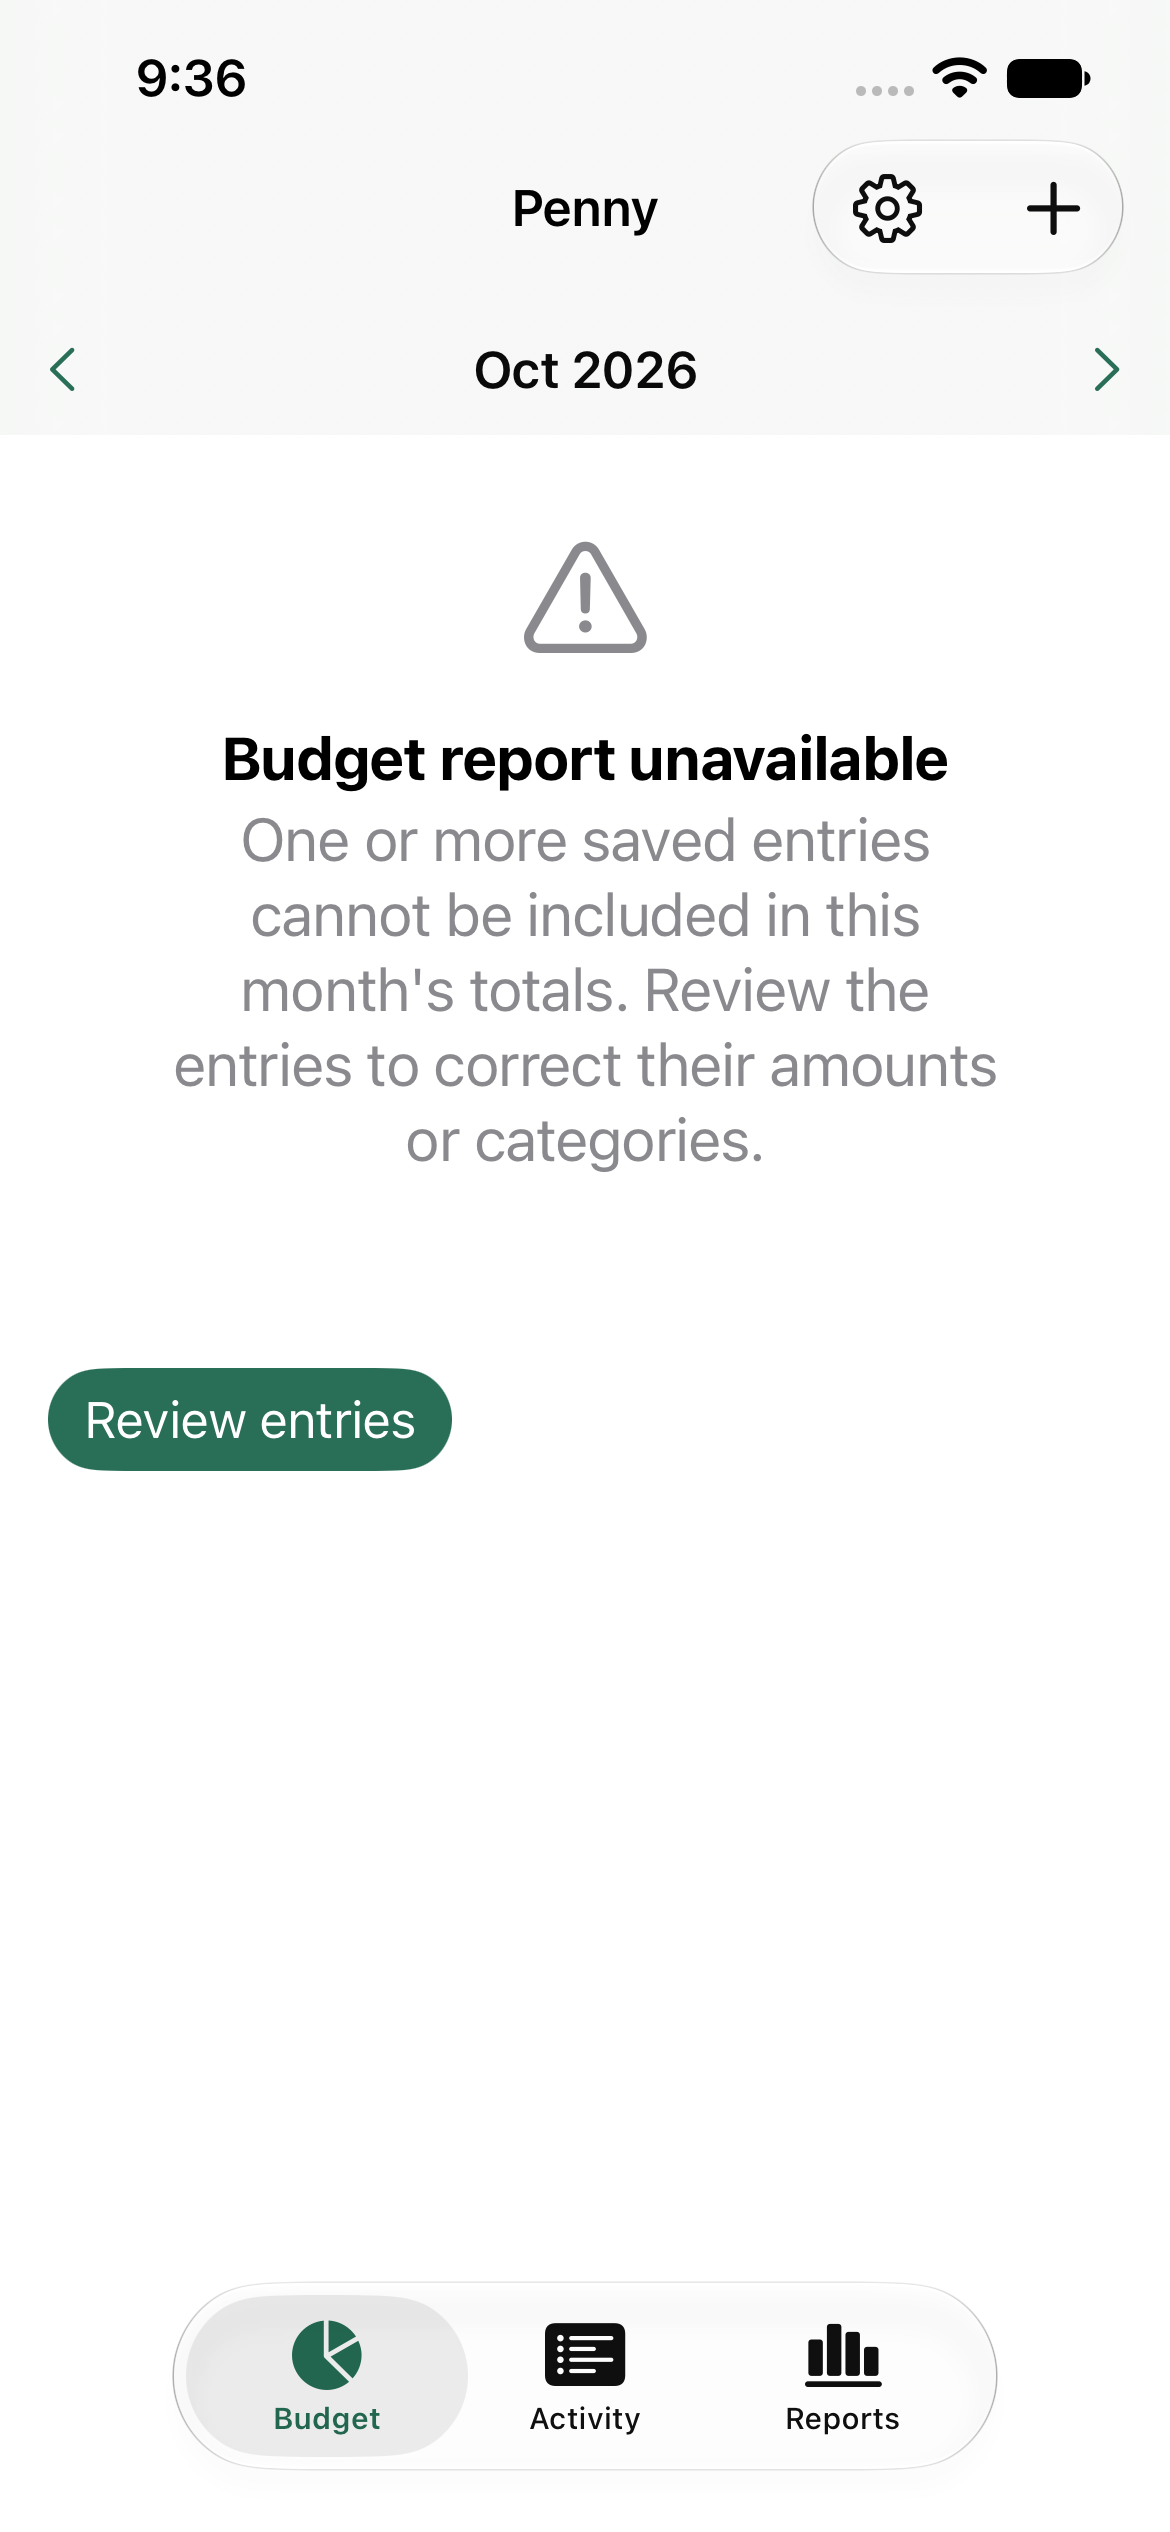
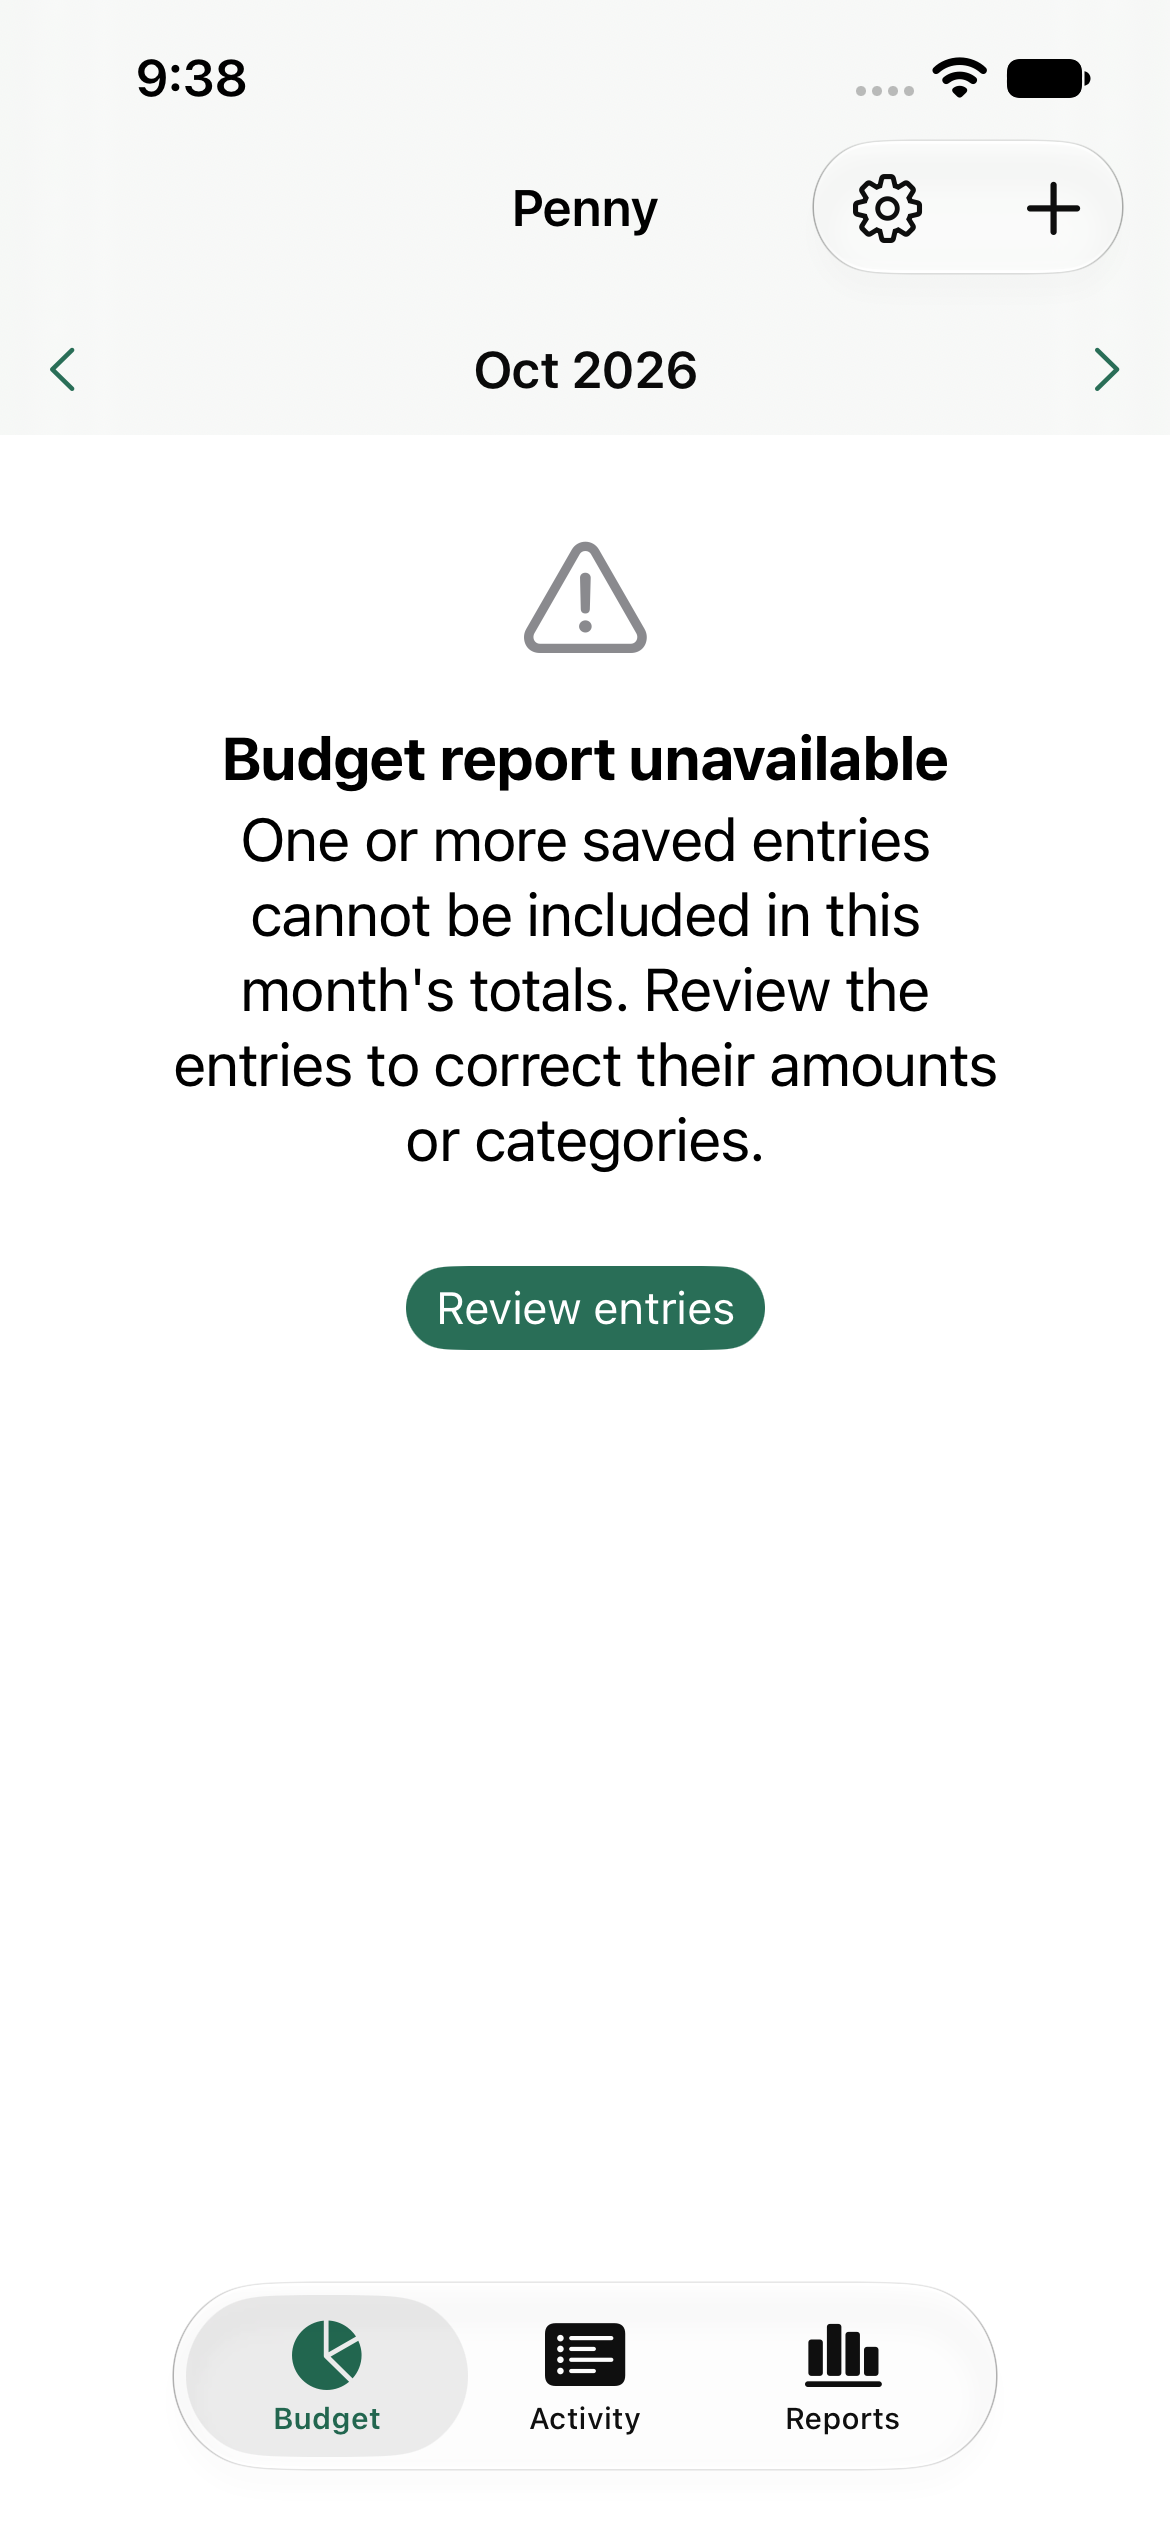
docs: record accessible recovery screen

Changed region(s): [[0.1538, 0.312, 0.8615, 0.468], [0.0308, 0.4992, 0.6769, 0.5928]]

diff --git a/design-review/review.md b/design-review/review.md
@@ -245,3 +245,7 @@ Report bars use existing accent; currency ticks omit redundant cents while exact
 ### Invalid report recovery — 69f0e87a7f87cfa9bc8a3807a9976539837328a3
 
 Budget/Reports previously suppressed failed reporting and could look empty. They now explain that saved entries prevent totals and offer Review entries; Activity remains available for correction. Isolated corrupt-data fixture never touches production stores. Real phone test proved unavailable totals are hidden, review opens the invalid entry, editing to 1 USD restores 2929 USD remaining, and error clears. Result `/private/tmp/penny-report-recovery-final.xcresult`; iOS and Mac builds passed. Fresh error screenshot inspected: message and recovery action visible, no fabricated total. Remaining criticisms: native explanatory text is subdued; recovery action sits apart from the centered message; large-text/error audit not yet executed. Other platforms still need explicit invalid-report presentation.
+
+### Accessible report recovery — 5b01219a3085e11f3284259456435c2bda46009b
+
+Explanation now uses primary contrast; native unavailable-view action groups Review entries with the message. Fresh screenshot replaces prior version, inspected with readable explanation and centered action. Full unfiltered error-state accessibility audit and persisted correction journey passed (`/private/tmp/penny-error-layout-audit.xcresult`, 1 test); iOS/Mac builds passed. This pass applies to this error state, not the unresolved overspent/tab-overlay audit. Remaining: large-text and dark error state, Mac runtime recovery, other-platform invalid totals, and complete visual gates.
